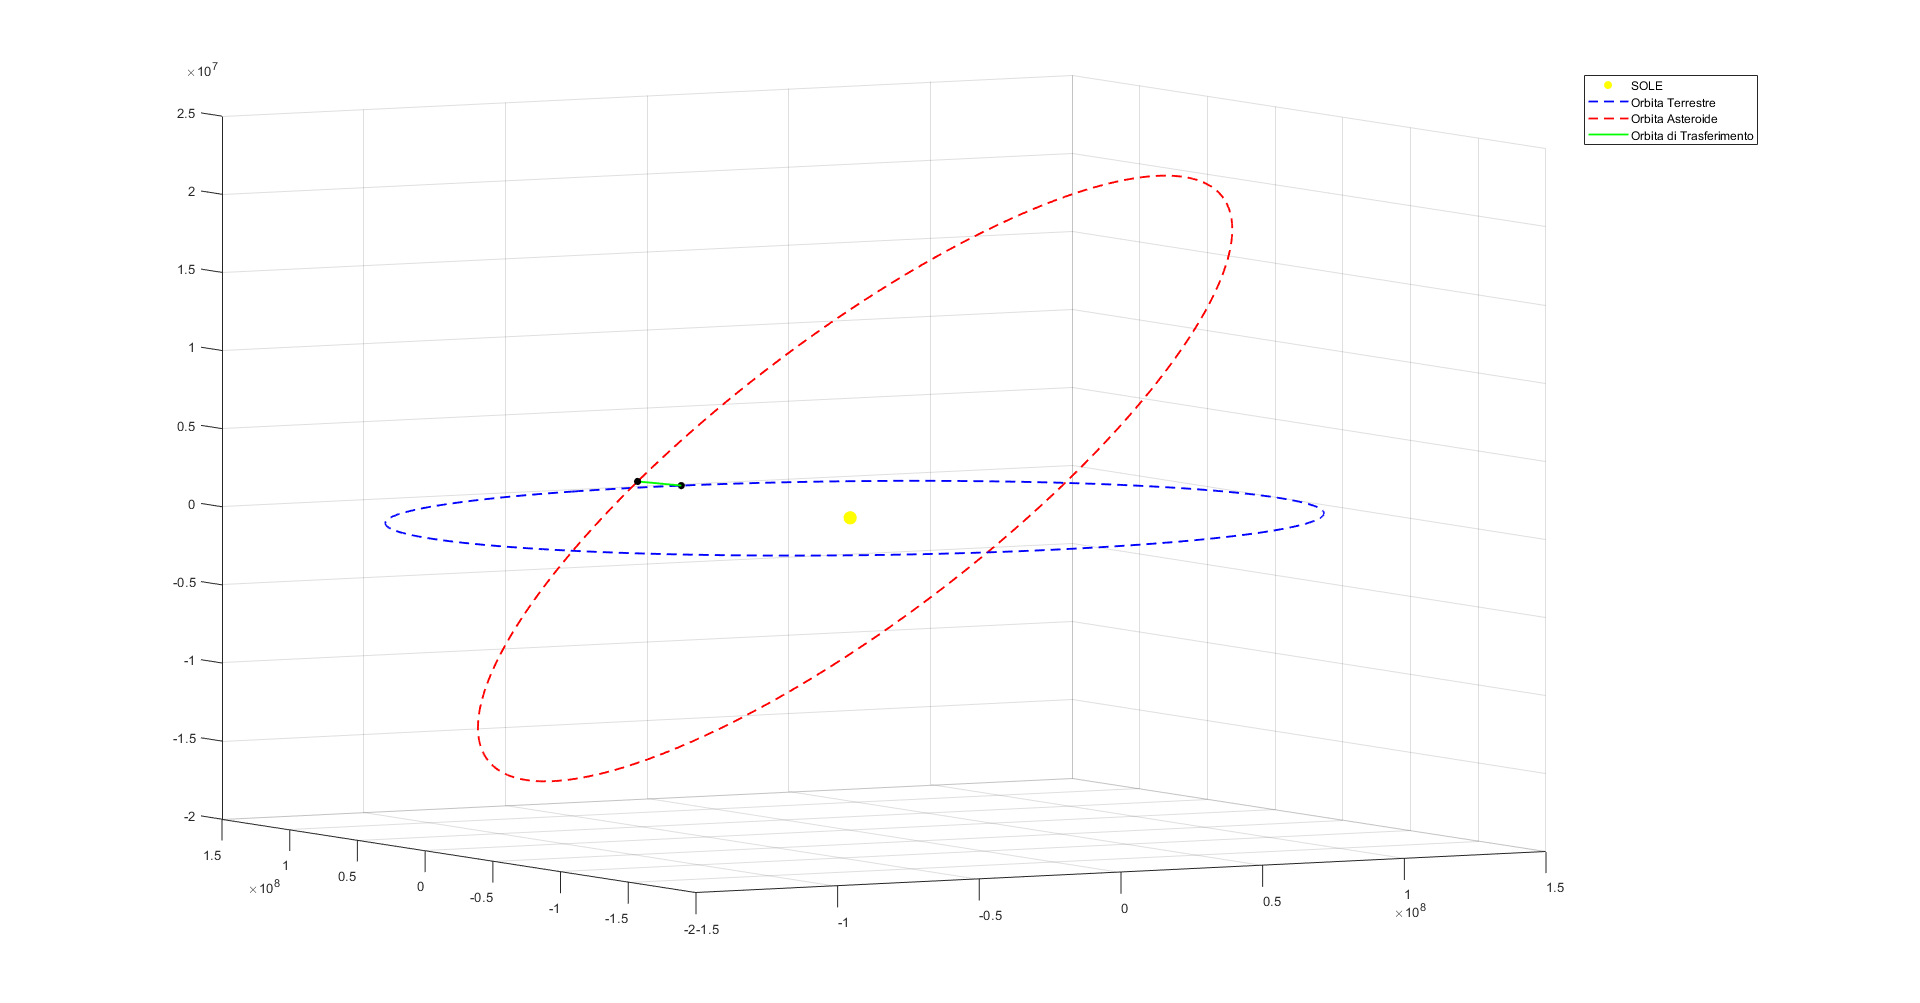
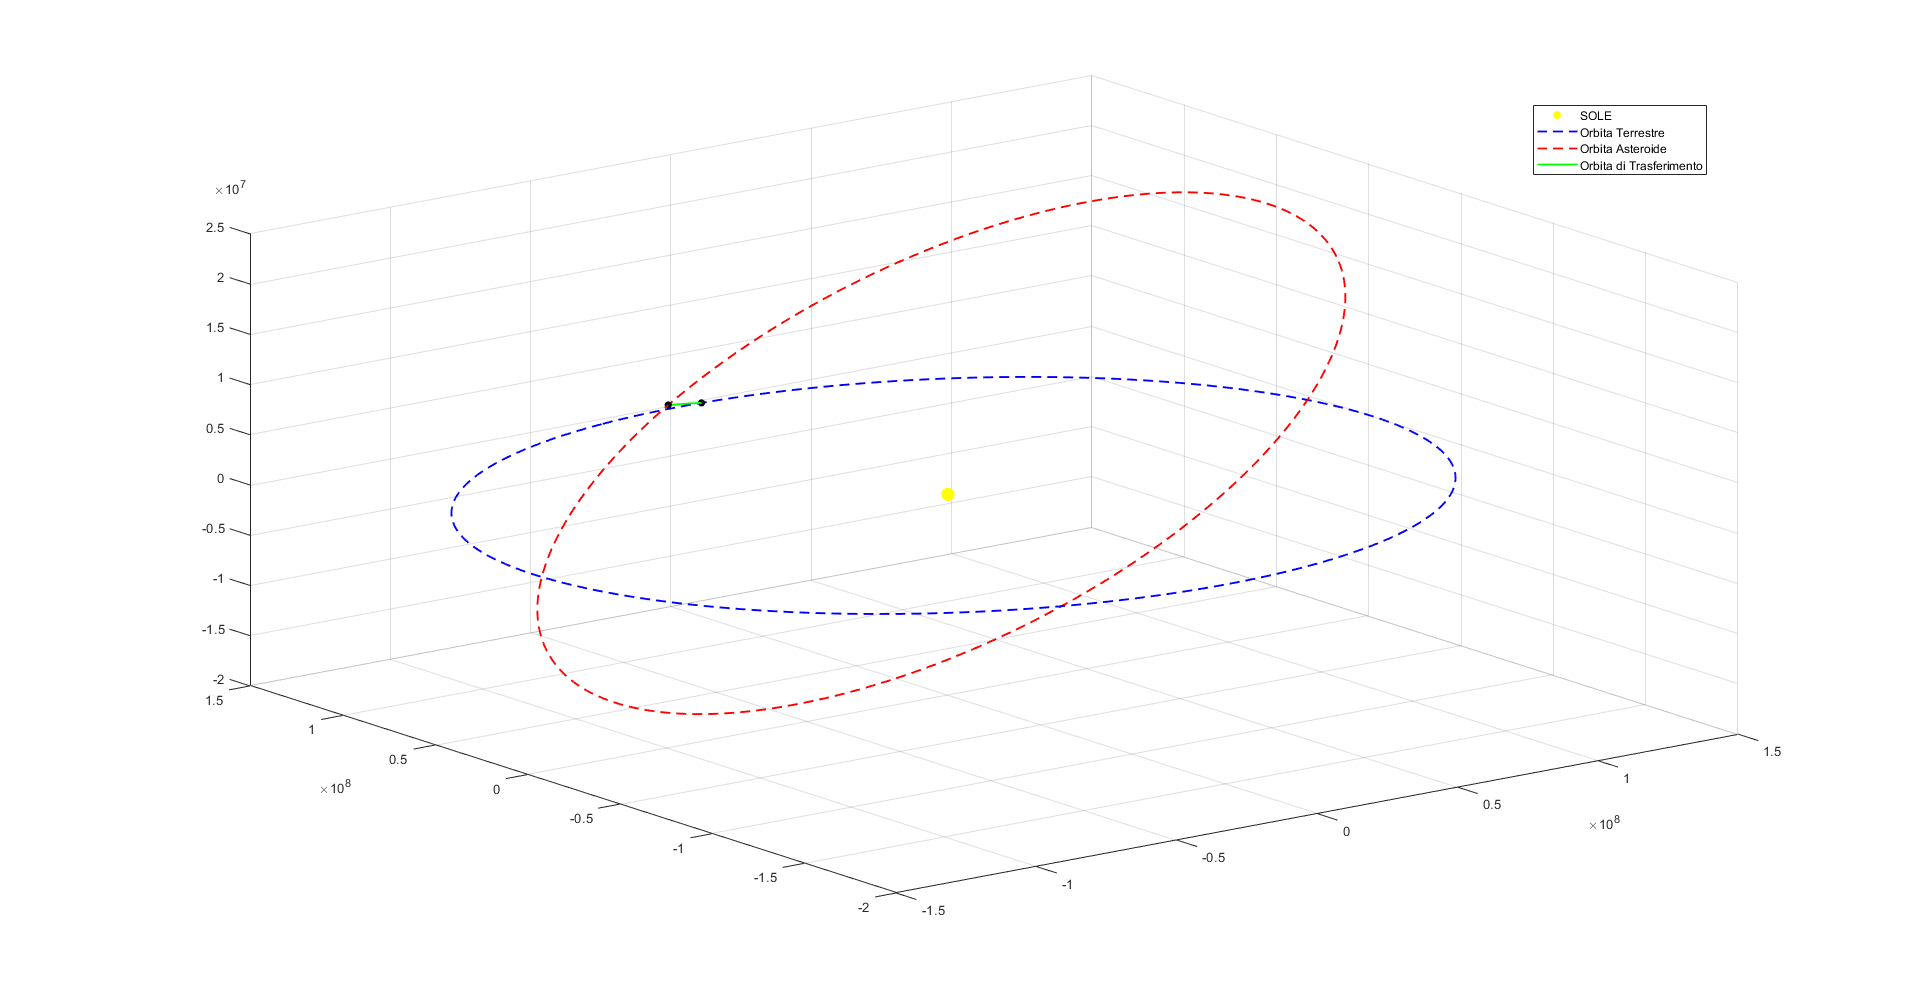
sc2 - latex continuo

diff --git a/Scenario2.m b/Scenario2.m
@@ -164,7 +164,7 @@ tic
 for th1i=linspace(a, b, n)
     for th2f=linspace(a, b, n)
         for om=linspace(1, 2*pi,n)
-            [O_t] = O_tfun(O_start,O_end,th1i,th2f,om);
+            [O_t] = O_tfun(O_start,O_end,th1i,th2f,om, [0,0]);
             if O_t.e<1 && O_t.e>=0
                 OO_t=[OO_t,O_t];
                 if O_t.cost<costmin
@@ -183,8 +183,8 @@ end
 toc
 % 
 [punto_1, ~] = par2car(O_start, th_best_12(1));
-[punto1_t, ~] = par2car(O_best, th_t_best(1));
-[punto2_t, ~] = par2car(O_best, th_t_best(2));
+[punto1_t, v1_car] = par2car(O_best, th_t_best(1));
+[punto2_t, v2_car] = par2car(O_best, th_t_best(2));
 [punto_2, ~] = par2car(O_end, th_best_12(2));
 
 scatter3 (punto1_t(1), punto1_t(2), punto1_t(3), 'red')
@@ -213,8 +213,7 @@ clear
 close all
 clc
 
-mu = 1.32712440042e20 * 0.001^3; % km^3/s^2
-dth = 0.001;
+
 
 % Terra
 O_start.a = 1.4946e8;  % [km]
@@ -239,9 +238,9 @@ O_end.mu = mu;
 
 % fun=@(th1,th2,om)brutta(th1,th2,om,O_start,O_end);
 % fun=@(x)brutta(x(1),x(2),x(3),O_start,O_end);
-fun_costo = @(x)O_tfun(O_start,O_end,x(1),x(2),x(3)).cost;
+fun_costo = @(x)O_tfun(O_start,O_end,x(1),x(2),x(3),[0,0]).cost;
 x = ga(fun_costo,3,[],[],[],[],[3.4,3.4,3.4],[3.8,3.8,3.8]);
-O_opt_costo = O_tfun(O_start, O_end,x(1),x(2),x(3))
+O_opt_costo = O_tfun(O_start, O_end,x(1),x(2),x(3),[0,0])
 
 figure
 scatter3 (0, 0, 0, 'y', 'filled', LineWidth=500)
@@ -255,7 +254,7 @@ plotOrbit (O_end, x(2), 2*pi, dth, 'k--');
 % plotOrbit (O_opt, 0, 2*pi, dth, 'k--');
 % plotOrbit (O_end, 0, 2*pi, dth, 'k--');
 % ga() trova in th1 = 3.6181, th2 = 3.4982, om = 3.7291, Dv = 6.3190, con
-% durata di 3304:29:10 (damn)
+% durata di 11896150 s = 3304:29:10 (damn)
 
 % O_t.a = 1.4812e+08;
 % O_t.e = 0.0283;
@@ -273,6 +272,58 @@ O_opt_costo.tempo = seconds(O_opt_costo.tempo);
 O_opt_costo.tempo.Format = 'hh:mm:ss';
 O_opt_costo.tempo
 
+%% Trasferimenti
+clear
+close all
+clc
+
+mu_S = 1.32712440042e20 * 0.001^3; % km^3/s^2
+dth = 0.001;
+
+% Terra
+O_start.a = 1.4946e8;  % [km]
+O_start.e = 0.016;     % [ ]
+O_start.i = 9.1920e-5; % [rad]
+O_start.OM = 2.7847;   % [rad]
+O_start.om = 5.2643;   % [rad]
+O_start.mu = mu_S;       % [km^3/s^2]
+
+% Asteroide 163899 (2003 SD220)
+O_end.a = 0.827903 *1.496e8; % [km]
+O_end.e = 0.209487;          % [ ]
+O_end.i = 8.55 *pi/180;      % [rad]
+O_end.OM = 273.63 *pi/180;   % [rad]
+O_end.om = 327.03 *pi/180;   % [rad]
+O_end.mu = mu_S;
+
+% Min delta v
+O_best_dv.a = 1.4812e+08;
+O_best_dv.e = 0.0283;
+O_best_dv.i = 0.0440;
+O_best_dv.OM = 5.3829;
+O_best_dv.om = 3.7291;
+O_best_dv.mu = 1.327124400420000e+11;
+O_best_dv.th_t = [2.5551, 4.8716];
+
+% x min dv =
+% 
+%     theta 1 = 6.0755   theta 2 = 3.6401   omega = 1.7471
+
+% Min delta t
+O_best_dt.a = 3.2632e+13;
+O_best_dt.e = 0.9999;
+O_best_dt.i = 1.5824;
+O_best_dt.OM = 1.5582;
+O_best_dt.om = 1.7471;
+O_best_dt.mu = mu_S;
+O_best_dt.th_t = [4.5360, 4.5475];
+
+% Punti di trasferimento
+[rr1_mindeltav, vv1_mindeltav] = par2car (O_best_dv, O_best_dv.th_t(1));
+[rr2_mindeltav, vv2_mindeltav] = par2car (O_best_dv, O_best_dv.th_t(2));
+
+[rr1_mindeltat, vv1_mindeltat] = par2car (O_best_dt, O_best_dt.th_t(1));
+[rr2_mindeltat, vv2_mindeltat] = par2car (O_best_dt, O_best_dt.th_t(2));
 %% Scenario 2 - ottimizzo il TOF con ga()
 clear
 close all
@@ -512,7 +563,7 @@ O_end.mu = mu;
 
 % fun=@(th1,th2,om)brutta(th1,th2,om,O_start,O_end);
 % fun=@(x)brutta(x(1),x(2),x(3),O_start,O_end);
-fun_opt = @(x)O_tfun(O_start,O_end,x(1),x(2),x(3),[8,1]).fun_pesata;
+fun_opt = @(x)O_tfun(O_start,O_end,x(1),x(2),x(3),[50,1]).fun_pesata;
 x = ga(fun_opt,3,[],[],[],[],[0,0,0],[2*pi,2*pi,2*pi])
 O_opt_pesata = O_tfun(O_start, O_end,x(1),x(2),x(3), [0,0])
 O_opt_pesata.tempo = seconds(O_opt_pesata.tempo);
@@ -520,39 +571,70 @@ O_opt_pesata.tempo.Format = 'hh:mm:ss';
 O_opt_pesata.tempo
 O_opt_pesata.cost
 
+% alpha = 50, beta = 1
 % x =
 % 
-%     6.0164    3.6966    2.1982
+%     6.0280    3.6867    2.1148
 % 
 % 
 % O_opt_pesata = 
 % 
 %   struct with fields:
 % 
-%              a: 1.3535e+08
-%              e: 0.1959
-%              i: 0.0272
-%             OM: 1.5022
-%             om: 2.1982
+%              a: 1.3704e+08
+%              e: 0.2160
+%              i: 0.0491
+%             OM: 1.5125
+%             om: 2.1148
 %             mu: 1.3271e+11
-%          cost1: 5.3826
-%          cost2: 5.4235
-%           cost: 10.8061
-%          tempo: 5.8680e+05
+%          cost1: 6.2575
+%          cost2: 6.2823
+%           cost: 12.5399
+%          tempo: 4.7740e+05
 %     fun_pesata: 0
-%           th_t: [4.0817 4.1967]
+%           th_t: [4.1666 4.2602]
 % 
 % 
 % ans = 
 % 
 %   duration
 % 
-%    162:59:59
+%    132:36:35
 % 
 % 
 % ans =
 % 
-%    10.8061
+%    12.5399
+
+O_best.a = 1.3704e+08;
+O_best.e = 0.2160;
+O_best.i = 0.0491;
+O_best.OM = 1.5125;
+O_best.om = 2.1148;
+O_best.cost = 12.5399;
+O_best.tempo = 4.7740e05;
+O_best.th_t = [4.1666, 4.2602];
+O_best.mu = mu;
+th_best_12 = [6.0280, 3.6867];
+
+[punto1_t, ~] = par2car(O_best, O_best.th_t(1));
+[punto_2, ~] = par2car(O_end, th_best_12(2));
+
+%%%%%%%%%%%%%%%%%%%%%%%%%%%%%%%%%%%%%%%%%%%%%%%%%%%%%%%%%%%%%%%%%%%%%%%%%%%
+% figure 4 - scenario 2, trasferimento approccio a tappeto min (delta t)
+figure
+scatter3 (0,0,0,100,"yellow", 'filled')
+hold on
+plotOrbit(O_start, 0, 2*pi, dth, 'b--');
+plotOrbit(O_end, 0, 2*pi, dth, 'r--');
+plotOrbit(O_best, O_best.th_t(1), O_best.th_t(2), dth, 'g');
+scatter3 (punto1_t(1), punto1_t(2), punto1_t(3), 30, 'k', 'filled')
+scatter3 (punto_2(1), punto_2(2), punto_2(3), 30, 'k', 'filled')
+grid on
+legend ('SOLE', 'Orbita Terrestre', 'Orbita Asteroide', 'Orbita di Trasferimento')
+%%%%%%%%%%%%%%%%%%%%%%%%%%%%%%%%%%%%%%%%%%%%%%%%%%%%%%%%%%%%%%%%%%%%%%%%%%%
+
+
 
 %% 
 clear
